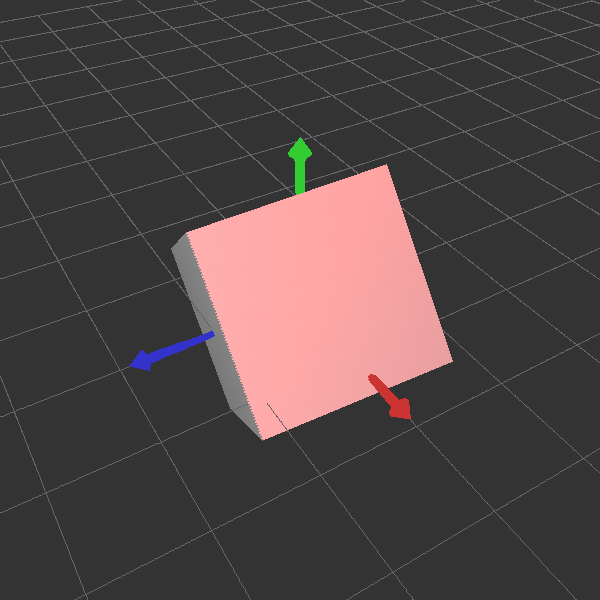
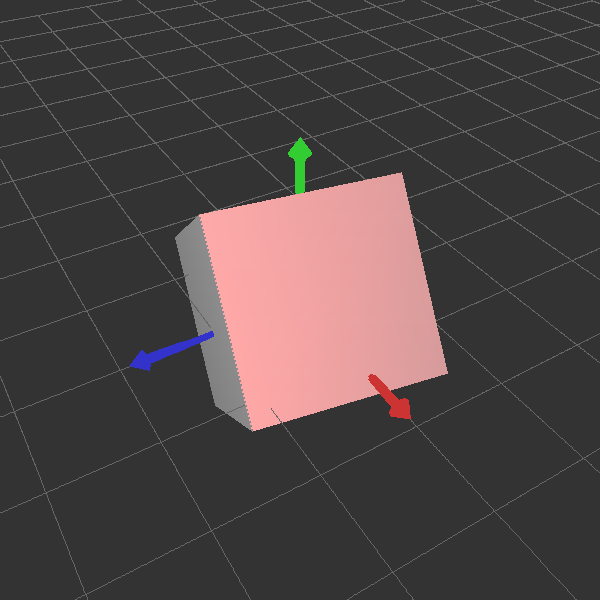
transformation

diff --git a/model/src/modeler/scene/Transformation.java b/model/src/modeler/scene/Transformation.java
@@ -154,8 +154,17 @@ public class Transformation extends SceneNode {
 	public int render(GL gl, GLU glu) {
 		int outCount = 0;
 
+		gl.glPushMatrix();
+		gl.glTranslatef(T.x, T.y, T.z); // Translate
+		gl.glRotatef(R.x, 1, 0, 0); // Rotate around X-axis
+		gl.glRotatef(R.y, 0, 1, 0); // Rotate around Y-axis
+		gl.glRotatef(R.z, 0, 0, 1); // Rotate around Z-axis
+		gl.glScalef(S.x, S.y, S.z); // Scale
+
 		// TODO: Part 1: fill in code before and after super.render to render children correctly
 		outCount = super.render(gl, glu);
+		
+		gl.glPopMatrix();
 
 		return outCount;
 	}
